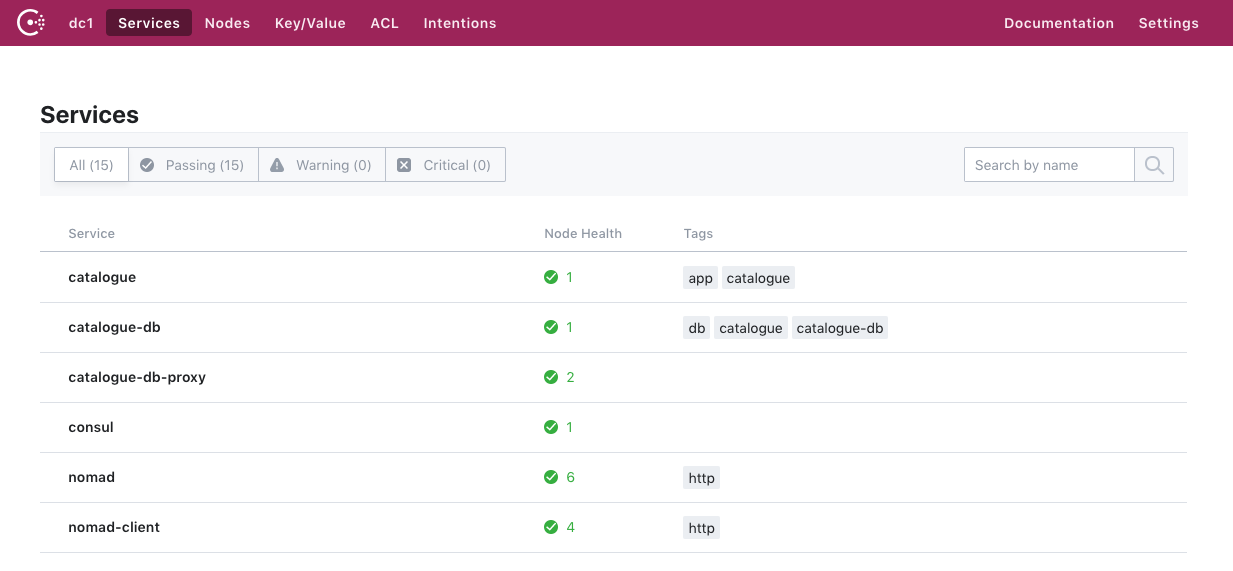
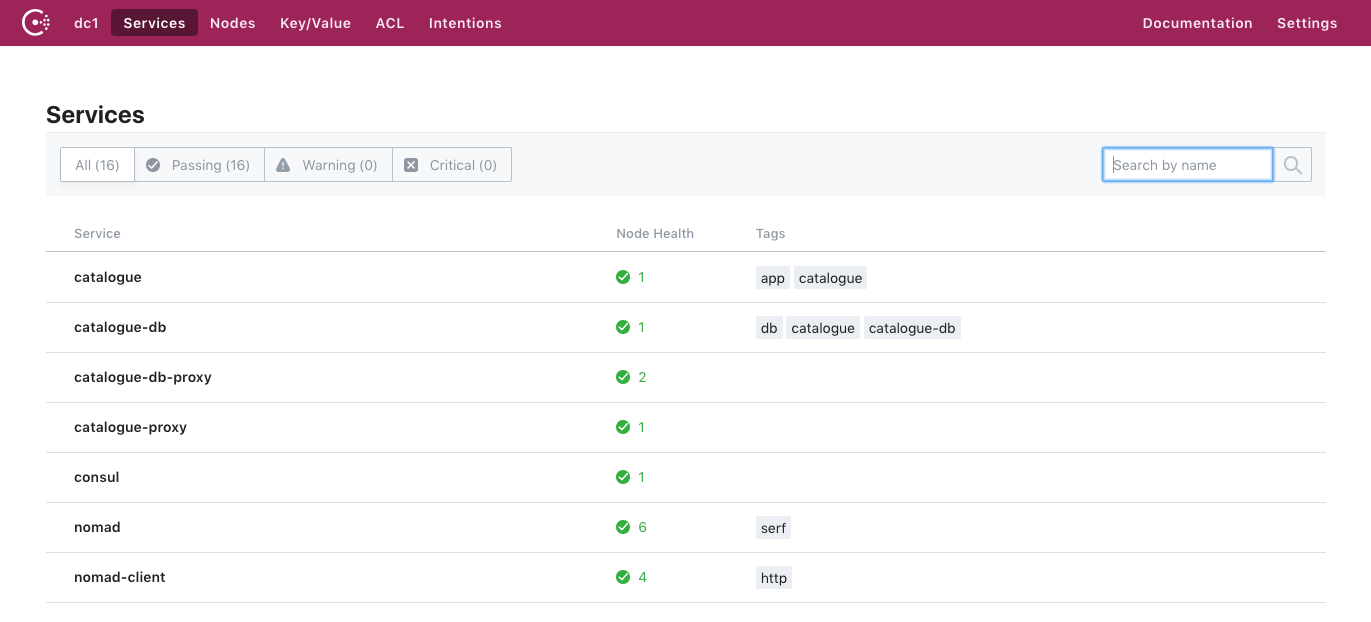
support non-host docker networks

diff --git a/application-deployment/consul-connect-with-nomad/README.md b/application-deployment/consul-connect-with-nomad/README.md
@@ -2,16 +2,22 @@
 The Catalogue Nomad Consul Connect Demo is derived from the Sock Shop microservices demo which illustrates how Nomad and Consul can be used to run and connect microservices.  This demo only uses the catalogue application and catalogue-db database from the broader demo, but adds two Consul Connect proxies in order to show how Consul Connect can allow or deny connectivity between different services in a service mesh. The catalogue application is a go application, the catalogue-db runs MySQL, and both run inside Docker containers.
 
 ## What Talks to What
-Please note the following facts related to communications :
-1. The catalogue app tries to talk to the catalogue-db database on 127.0.0.1, forcing it to talk to the catalogueproxy.
-1. The catalogueproxy is configured to forward requests to the catalogue-db service.
-1. Knowing that the request to the catalogue-db service came from the upstream proxy, Consul will automatically forward it to the cataloguedbproxy rather than directly to the catalogue-db service itself.
-1. The cataloguedbproxy will forward the request to the catalogue-db service.
-1. The MySQL database is configured to only bind to 127.0.0.1 making it impossible for any application to connect to it using anything other than 127.0.0.1 or localhost. This means it is impossible for the catalogue app to talk directly to the catalogue-db database if running on a different server.
-1. Additionally, if we made the catalogue app talk to the catalogue-db database using the private IP address of the instance the database runs on, the requests would all fail.
-1. Finally, we are using Nomad's distinct_hosts constraint to run the catalogue app and catalogue-db database on different EC2 instances.
+Please note the following facts related to communications:
+1. The catalogue and catalogue-db services run in Docker containers using Docker's standard bridge network.
+1. The catalogue talks to the catalogue-db database on the upstream port of the catalogue-proxy. That port is dynamically selected by Nomad. The private IP address of the Nomad client is used by the upstream proxy.
+1. The catalogue-proxy upstream proxy forwards requests to the catalogue-db service.
+1. Knowing that the request to the catalogue-db service came from the upstream proxy, Consul automatically forwards it to the cataloguedb-proxy rather than directly to the catalogue-db service itself.
+1. The cataloguedb-proxy forwards the request to the catalogue-db service.
+1. Finally, we are using Nomad's distinct_hosts constraint to run the catalogue app and catalogue-db database on different EC2 instances. Since the proxies are defined in the Nomad groups containing the services, Nomad always deploys them to the same clients as their respective services.
 
 Together, all the above points guarantee that the catalogue app can only talk to the catalogue-db database through the Consul Connect proxies, but only if there is no Deny intention prohibiting this.
+
+## How the catalogue-proxy is Run
+The Consul Connect proxy, catalogue-proxy, is run by the Nomad task, catalogueproxy, which launches the run-proxy.sh script. This script first registers the catalogue-proxy service definition with Consul using the Consul agent/service/register API endpoint. The service definition is generated from a template contained inside the catalogue-with-connect.nomad job specification file and uses ports dynamically selected by Nomad. The script then runs the proxy with that service definition using the `consul connect proxy -sidecar-for catalogue` CLI command.
+
+Note that the run-proxy.sh script could be used to run multiple proxies within a single Nomad job since the proxy name is passed in with an argument.
+
+The reader might wonder why we first register the service definition and then run `consul connect proxy` with the `-sidecar-for catalogue` arguments instead of running `consul connect proxy -service catalogue -upstream catalogue-db:${NOMAD_PORT_tcp}` which would register the proxy as a service and run it in a single step. We do this because the `consul connect proxy` CLI does not support specifying a local_bind_address for upstream proxies, instead defaulting to 127.0.0.1. An earlier version of this demo did run the longer version of the CLI command without first registering the catalogue-proxy service, but this required us to run the Docker containers on the host network which is generally undesirable. Using the host network was necessary because Docker containers in other networks cannot bind to the host's 127.0.0.1 IP.
 
 ## Reference Material
 You can learn more about the Sock Shop demo at the [Sock Shop](https://catalogue-connect-demo.github.io/) website.  This repository contains a complete version of the demo in the [microservices](../microservices) directory. A modified version of the [original catalogue repository](https://github.com/catalogue-connect-demo/catalogue) is in this [fork](https://github.com/rberlind/catalogue).
@@ -19,7 +25,7 @@ You can learn more about the Sock Shop demo at the [Sock Shop](https://catalogue
 The instructions below describe how you can run and connect the Sock Shop catalogue and catalogue-db microservices in AWS using [Nomad](https://www.nomadproject.io/) and [Consul](https://www.consul.io). Additionally, [Packer](https://www.packer.io) was used to build the AWS AMI that runs Nomad, Consul, and the microservices, while [Terraform](https://www.terraform.io) is used to provision the AWS infrastructure (including a VPC and public subnet and EC2 instances).
 
 ## Estimated Time to Complete
-20 minutes
+15 minutes
 
 ## Personas
 Our target persona is a developer who wants to run microservices with Nomad and connect them securely with Consul Connect.
@@ -42,7 +48,7 @@ Please execute the following commands and instructions to deploy the AWS infrast
 ## Step 1: Create a New AMI with Packer (optional)
 You can now use Packer and Terraform to provision your AWS EC2 instances along with other AWS infrastructure.
 
-We have already used Packer to create Amazon Machine Image ami-003ed29221ce4a111 which uses Nomad 0.8.6 and Consul 1.3.0. You can use this as the basis for your EC2 instances. This AMI only exists in the AWS us-east-1 region. If you want to create a similar AMI in a different region or if you make any changes to any of the files in the shared directory, you will need to create your own AMI with Packer. This is very simple. Starting from the home directory, do the following (being sure to specify the region and a vaid source_ami for that region in packer.json if the region is different from us-east-1):
+We have already used Packer to create Amazon Machine Image ami-01d821506cee7b2c4 which uses Nomad 0.8.6 and Consul 1.3.0. You can use this as the basis for your EC2 instances. This AMI only exists in the AWS us-east-1 region. If you want to create a similar AMI in a different region or if you make any changes to any of the files in the shared directory, you will need to create your own AMI with Packer. This is very simple. Starting from the home directory, do the following (being sure to specify the region and a vaid source_ami for that region in packer.json if the region is different from us-east-1):
 
 ```
 export AWS_ACCESS_KEY_ID=<your_aws_key>
